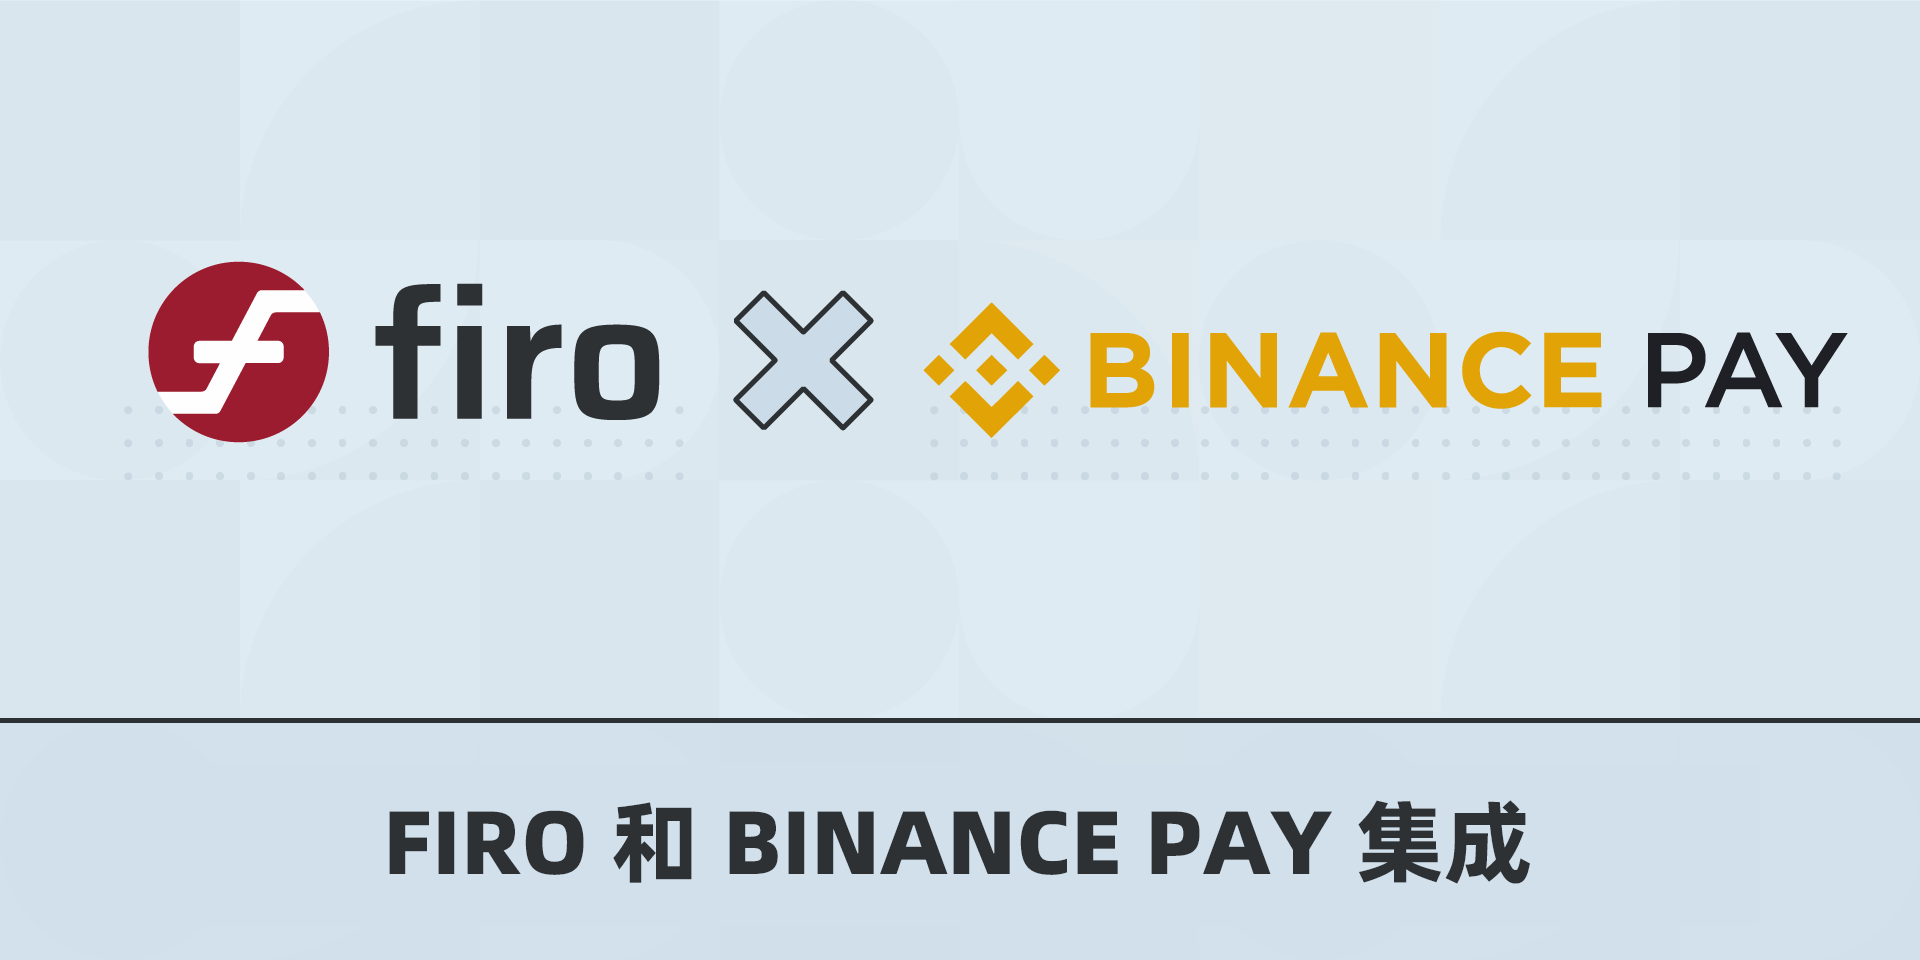
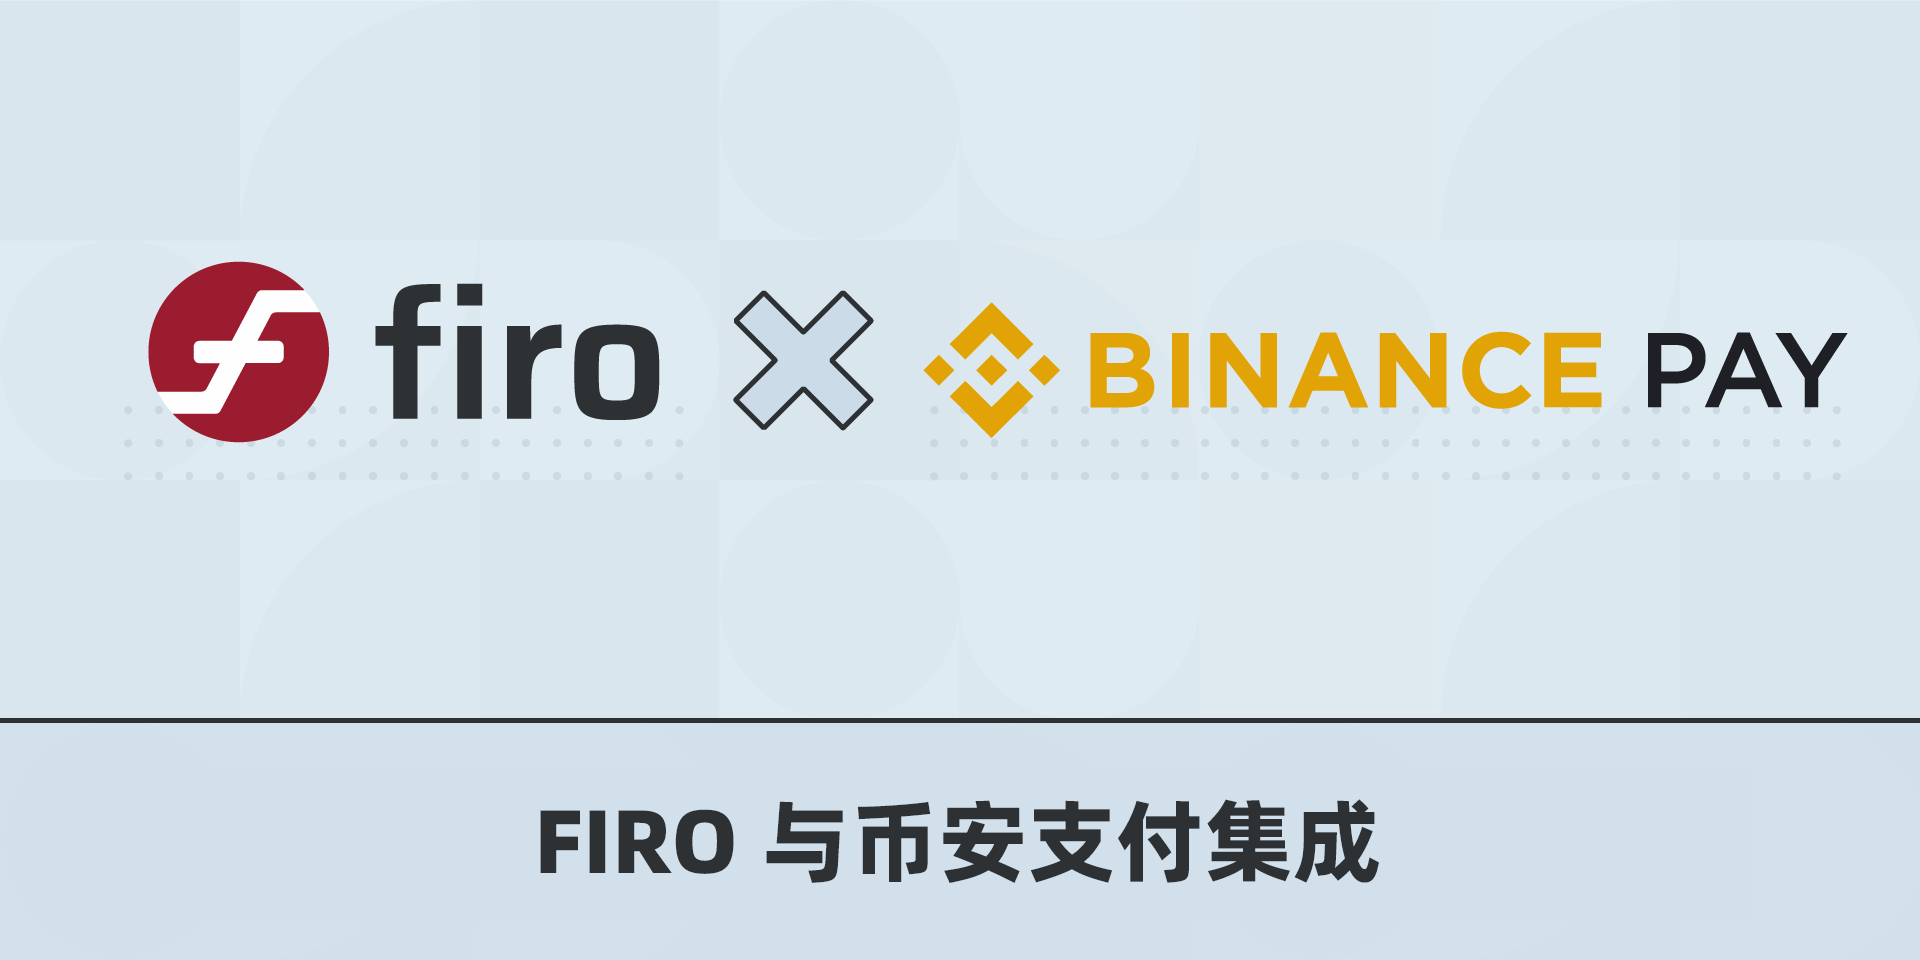
Binance Pay -> 币安支付

Changed region(s): [[0.1875, 0.8125, 0.8125, 0.9375]]

diff --git a/posts/2021-11-25-firo-binance-pay.md b/posts/2021-11-25-firo-binance-pay.md
@@ -1,4 +1,4 @@
-# Firo 集成到 Binance Pay
+# Firo 集成到币安支付
 
 _2021 年 11 月 25 日_
 
@@ -6,17 +6,17 @@ _用 Firo 购物或将 Firo 发送给世界各地的朋友和家人_
 
 ![FIRO 和 BINANCE PAY 集成](<%= imgsURL %>/firo_binance_pay_integration.png)
 
-Firo 已集成到 [Binance Pay](https://pay.binance.com/) 中，Binance Pay 是一种无接触、无界限、安全的加密货币支付技术。
+Firo 已集成到[币安支付](https://pay.binance.com/)中，币安支付是一种无接触、无界限、安全的加密货币支付技术。
 
-虽然我们始终建议用户将 Firo 存储在他们自己的 [Firo 钱包](https://firo.org/zh-cn/get-firo/download/)中，如我们的 QT 或 Electron 钱包，它完全支持我们所有的隐私功能，但现实是许多用户将他们的 Firo 存储在 Binance 上。
+虽然我们始终建议用户将 Firo 存储在他们自己的 [Firo 钱包](https://firo.org/zh-cn/get-firo/download/)中，如我们的 QT 或 Electron 钱包，它完全支持我们所有的隐私功能，但现实是许多用户将他们的 Firo 存储在币安上。
 
-Binance Pay 为现有的 Binance 用户提供了一种简单方便的方式来即时支付、接收和发送 Firo 并与已经接受 Binance Pay 的商户（如 [Travala](https://www.travala.com/cn)）轻松集成。
+币安支付为现有的币安用户提供了一种简单方便的方式来即时支付、接收和发送 Firo 并与已经接受币安支付的商户（如 [Travala](https://www.travala.com/cn)）轻松集成。
 
-你可以访问 [Binance 市场](https://pay.binance.com/en/merchant-stores)查看支持的商户名单。Firo 核心团队正在接触这些尚未接受 Firo 的商户！
+你可以访问[币安市场](https://pay.binance.com/en/merchant-stores)查看支持的商户名单。Firo 核心团队正在接触这些尚未接受 Firo 的商户！
 
 这种集成鼓励更多的人采用 Firo 作为支付方式，并扩大我们的商户基础。
 
-除了 Binance Pay，希望以方便的方式接受 Firo 的商户也可以使用 [NOWPayments](https://nowpayments.io/) 或 [CoinPayments](https://www.coinpayments.net/)。我们还邀请我们的社区与使用这些支付网关的现有商户联系增加 Firo 作为支付选项！
+除了币安支付，希望以方便的方式接受 Firo 的商户也可以使用 [NOWPayments](https://nowpayments.io/) 或 [CoinPayments](https://www.coinpayments.net/)。我们还邀请我们的社区与使用这些支付网关的现有商户联系增加 Firo 作为支付选项！
 
 ---
 
